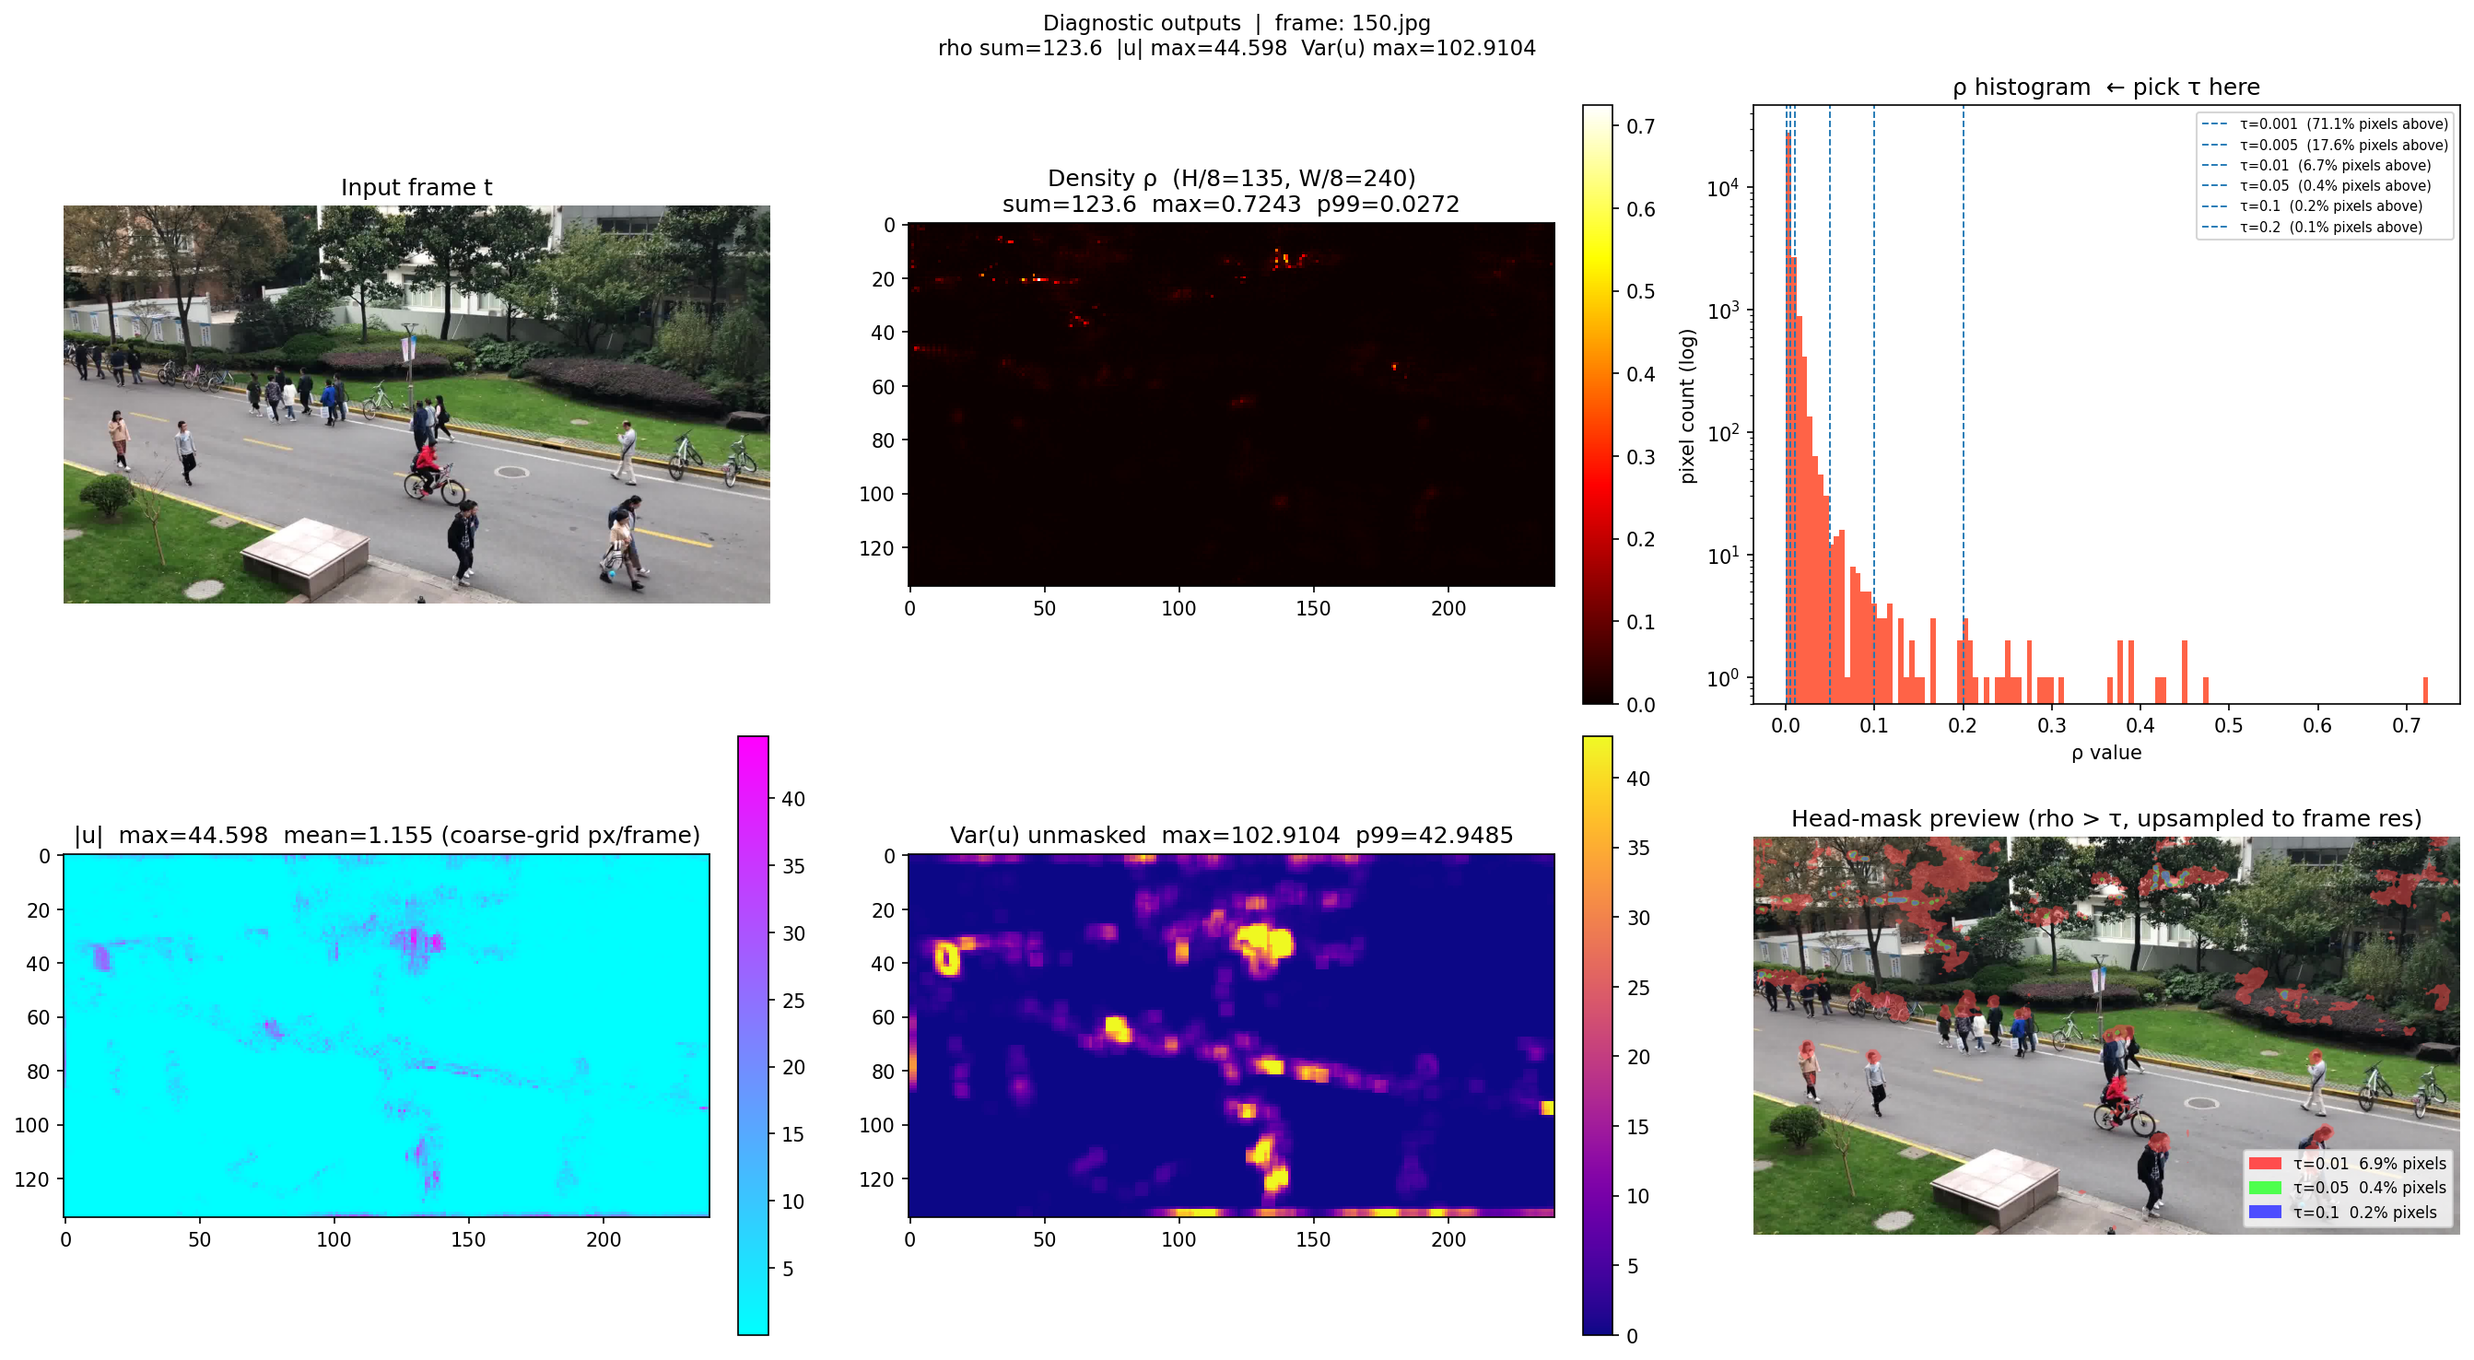
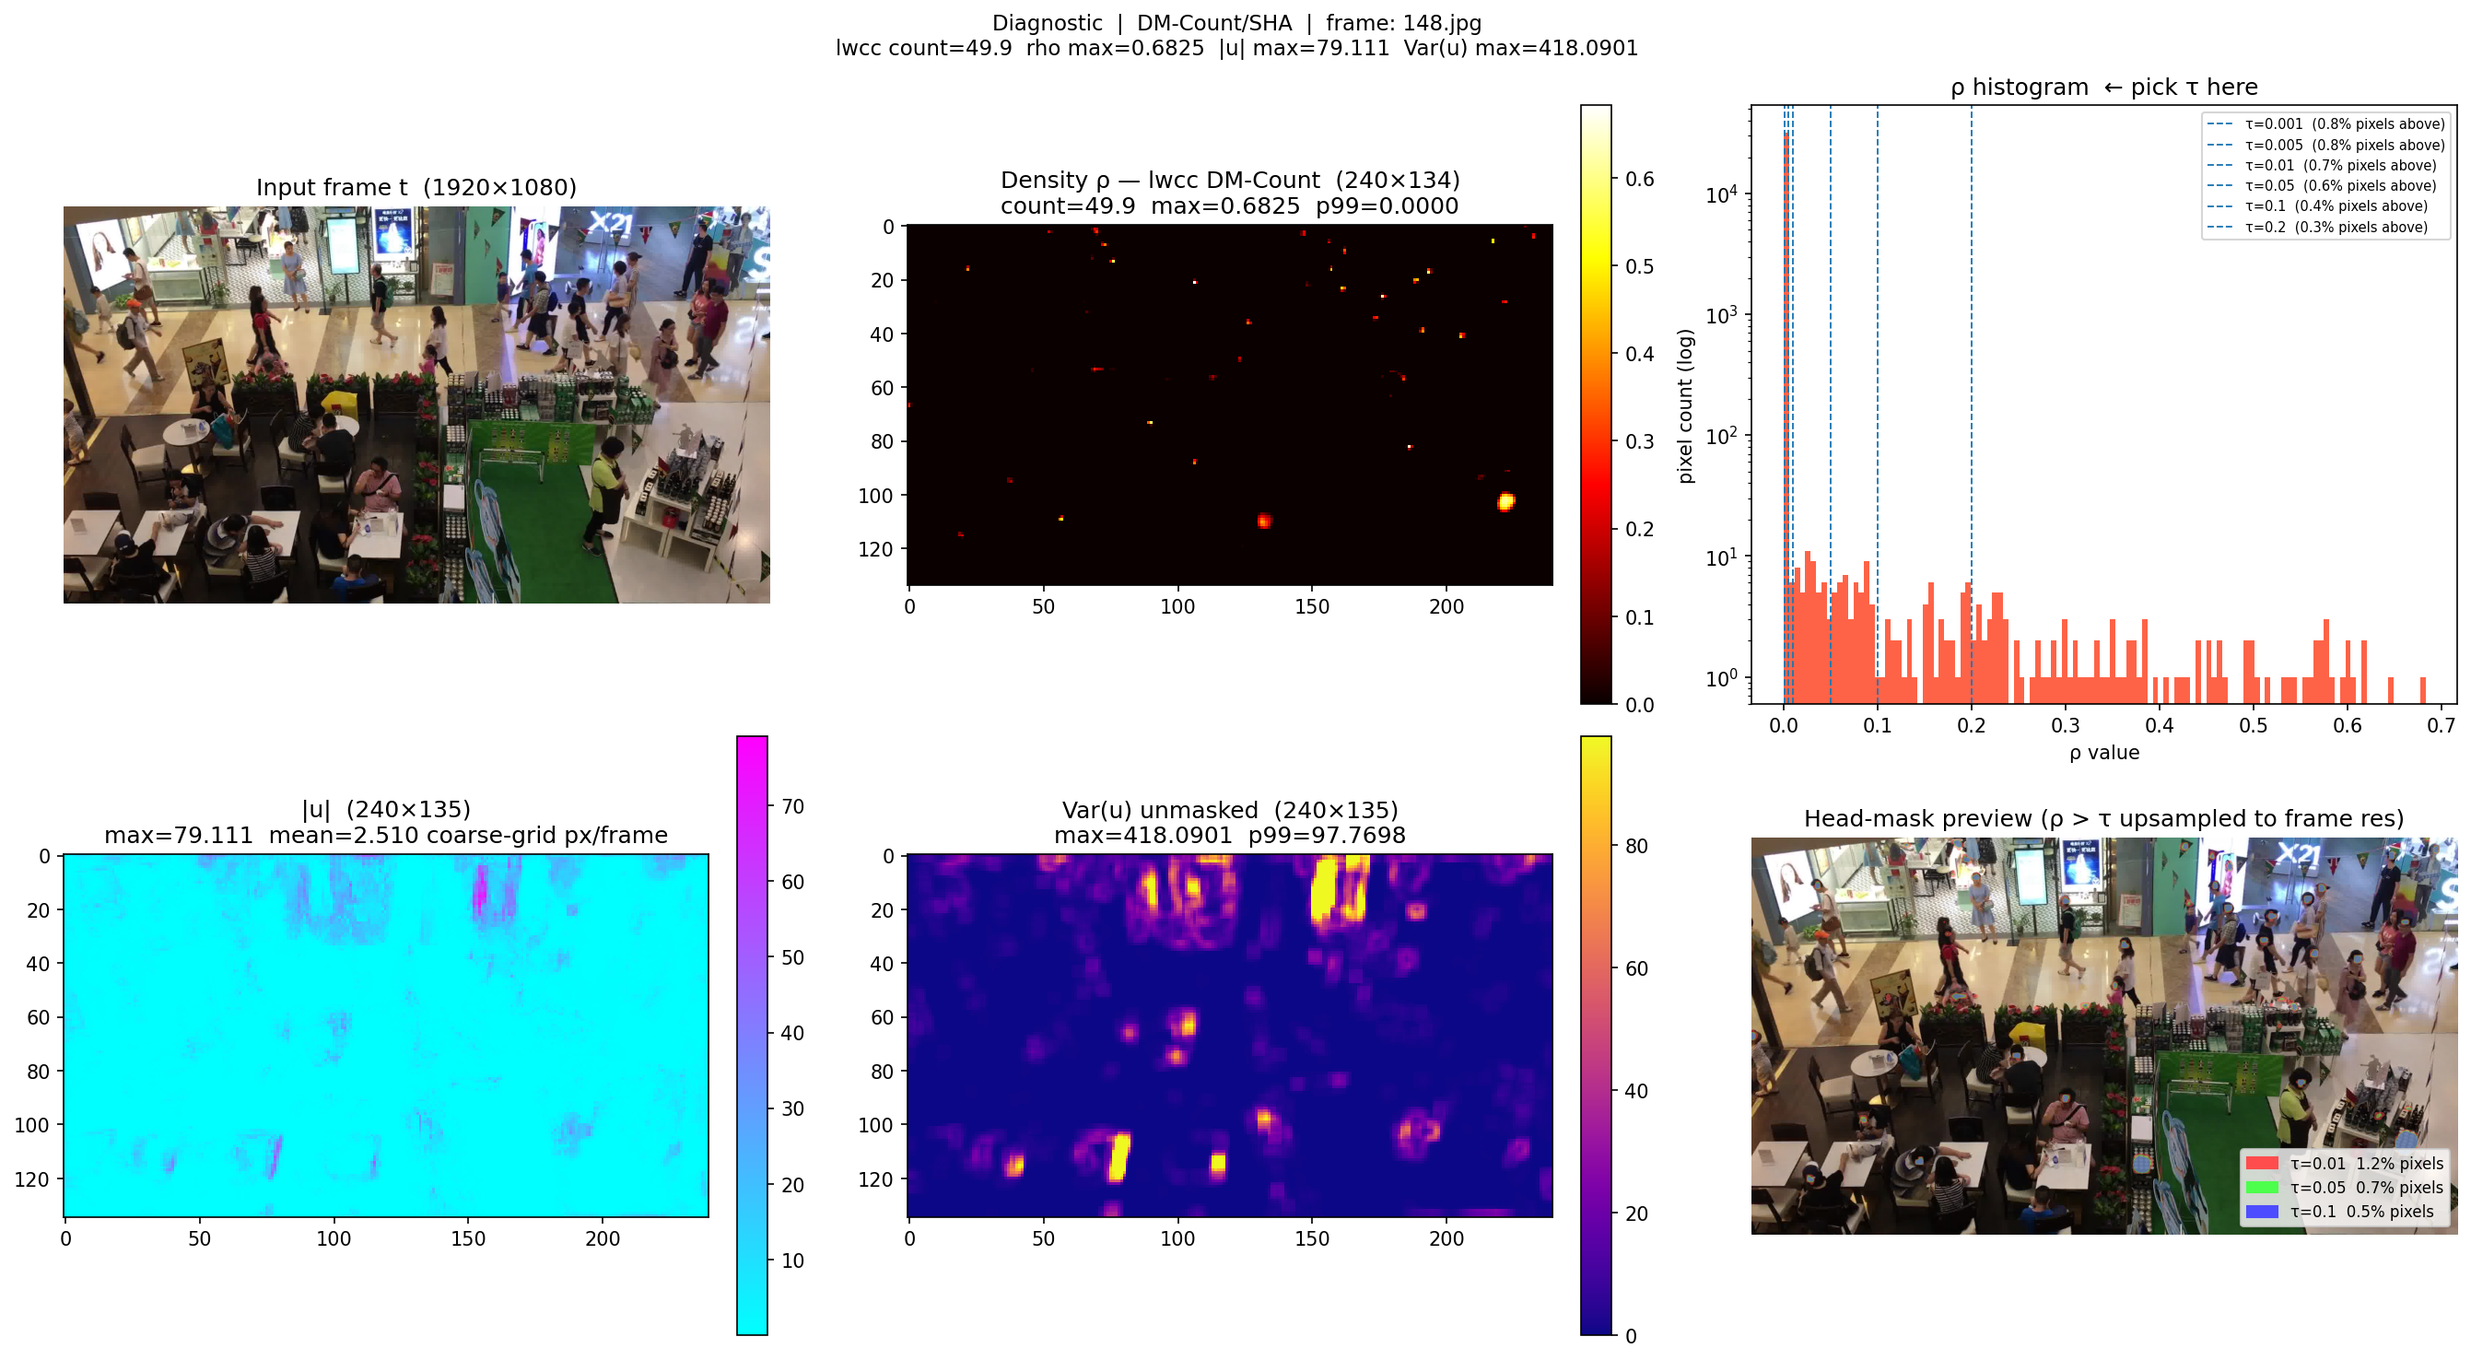
support lwcc

diff --git a/fluid-flow-pinn/scripts/diagnose_outputs.py b/fluid-flow-pinn/scripts/diagnose_outputs.py
@@ -1,28 +1,32 @@
-"""Diagnostic: dump raw density + flow outputs for threshold exploration.
+"""Diagnostic: dump raw density (lwcc) + flow (RAFT) outputs for threshold exploration.
 
-Runs CSRNet + RAFT on a pair of consecutive frames and produces a single
-PNG with 6 panels:
+Runs lwcc crowd counter + RAFT on a pair of frames and produces a single PNG with 6 panels:
 
   1. Input frame t
-  2. Raw density map (rho) — values printed in title (min/max/sum/percentiles)
-  3. Density histogram (log-scale) — use this to pick a rho threshold
+  2. Raw density map (rho) from lwcc — min/max/sum/percentiles in title
+  3. Density histogram (log-scale) — use this to pick a rho threshold tau
   4. Flow magnitude |u| at coarse grid
   5. Local variance Var(u) — unmasked, shows the clothing-noise problem
-  6. What a density-threshold mask looks like at different tau values
+  6. Head-mask preview: what rho > tau looks like at 3 tau values overlaid on frame
 
 Usage:
     python scripts/diagnose_outputs.py \\
-        --csrnet-weights /path/to/model_best.pth \\
         --frame-t  /path/to/frame_000.jpg \\
         --frame-t1 /path/to/frame_001.jpg \\
-        --out      outputs/diag.png
+        --out      outputs/diag/diagnostic.png
 
-    # If you only have a single image, pass the same path twice — flow will
-    # be zero but the density panel is still useful.
+    # Model choice (default DM-Count/SHA — best overall):
+    python scripts/diagnose_outputs.py \\
+        --frame-t img0.jpg --frame-t1 img1.jpg \\
+        --lwcc-model DM-Count --lwcc-weights SHA
+
+    # If you only have one image, pass it twice — flow will be zero
+    # but all density panels still render.
 """
 
 import argparse
 import sys
+import tempfile
 from pathlib import Path
 
 import cv2
@@ -37,12 +41,13 @@ from torch.amp import autocast
 ROOT = Path(__file__).resolve().parent.parent
 sys.path.insert(0, str(ROOT))
 
-from models.branch1_density import load_csrnet
 from models.branch2_flow import load_raft
 
 _MEAN = [0.485, 0.456, 0.406]
 _STD  = [0.229, 0.224, 0.225]
 
+
+# ── helpers ───────────────────────────────────────────────────────────────────
 
 def _to_tensor(bgr: np.ndarray, device: torch.device) -> torch.Tensor:
     rgb = cv2.cvtColor(bgr, cv2.COLOR_BGR2RGB).astype(np.float32) / 255.0
@@ -55,31 +60,64 @@ def _to_tensor(bgr: np.ndarray, device: torch.device) -> torch.Tensor:
 def _local_var(u: np.ndarray, k: int = 5) -> np.ndarray:
     ux, uy = u[0].astype(np.float32), u[1].astype(np.float32)
     Ex  = cv2.blur(ux, (k, k));  Ey  = cv2.blur(uy, (k, k))
-    Ex2 = cv2.blur(ux*ux, (k, k)); Ey2 = cv2.blur(uy*uy, (k, k))
+    Ex2 = cv2.blur(ux * ux, (k, k)); Ey2 = cv2.blur(uy * uy, (k, k))
     return np.clip(((Ex2 - Ex**2) + (Ey2 - Ey**2)) / 2.0, 0, None)
 
 
 def _stats(arr: np.ndarray, name: str) -> str:
     return (f"{name}: min={arr.min():.4f}  max={arr.max():.4f}  "
             f"mean={arr.mean():.4f}  sum={arr.sum():.2f}  "
-            f"p50={np.percentile(arr,50):.4f}  "
-            f"p90={np.percentile(arr,90):.4f}  "
-            f"p99={np.percentile(arr,99):.4f}")
+            f"p50={np.percentile(arr, 50):.4f}  "
+            f"p90={np.percentile(arr, 90):.4f}  "
+            f"p99={np.percentile(arr, 99):.4f}")
 
+
+def _lwcc_density(bgr: np.ndarray, model, model_name: str, get_count_fn) -> tuple[float, np.ndarray]:
+    """Run lwcc on a BGR frame (in-memory) via a temp file.
+
+    Returns (count, density_map_2d) where density_map_2d is a float32 numpy
+    array at the model's native output resolution (~H/8 for CSRNet-based models).
+    """
+    # lwcc only accepts file paths — write to a temp PNG, read back, clean up.
+    with tempfile.NamedTemporaryFile(suffix=".png", delete=False) as f:
+        tmp_path = f.name
+    try:
+        cv2.imwrite(tmp_path, bgr)
+        count, density = get_count_fn(
+            tmp_path,
+            model_name=model_name,
+            model=model,
+            return_density=True,
+            resize_img=False,   # we already handle our own resolution
+        )
+    finally:
+        Path(tmp_path).unlink(missing_ok=True)
+
+    return float(count), np.array(density, dtype=np.float32)
+
+
+# ── main ──────────────────────────────────────────────────────────────────────
 
 @torch.no_grad()
 def main(args: argparse.Namespace) -> None:
     device = torch.device("cuda" if torch.cuda.is_available() else "cpu")
     print(f"device: {device}")
 
-    # ── load models ───────────────────────────────────────────────────────────
-    density_branch = load_csrnet(
-        weights_path=args.csrnet_weights,
-        use_grad_checkpoint=False,
-        pretrained_vgg=(args.csrnet_weights is None),
-        freeze=True,
-    ).to(device).eval()
+    # ── load lwcc model once ──────────────────────────────────────────────────
+    try:
+        from lwcc.LWCC import load_model as lwcc_load_model, get_count as lwcc_get_count
+    except ImportError:
+        print("ERROR: lwcc not installed. Run:  pip install lwcc")
+        sys.exit(1)
 
+    print(f"Loading lwcc model: {args.lwcc_model} / {args.lwcc_weights} …")
+    lwcc_model = lwcc_load_model(
+        model_name=args.lwcc_model,
+        model_weights=args.lwcc_weights,
+    )
+    print("lwcc model ready.")
+
+    # ── load RAFT once ────────────────────────────────────────────────────────
     flow_branch = load_raft(frozen=True).to(device).eval()
 
     # ── load frames ───────────────────────────────────────────────────────────
@@ -88,35 +126,42 @@ def main(args: argparse.Namespace) -> None:
     if bgr_t is None:  raise FileNotFoundError(args.frame_t)
     if bgr_t1 is None: raise FileNotFoundError(args.frame_t1)
 
-    # snap to multiples of 8
+    # snap to multiples of 8 (RAFT requirement)
     H = (bgr_t.shape[0] // 8) * 8
     W = (bgr_t.shape[1] // 8) * 8
     bgr_t  = cv2.resize(bgr_t,  (W, H))
     bgr_t1 = cv2.resize(bgr_t1, (W, H))
 
+    # ── density via lwcc ──────────────────────────────────────────────────────
+    print("Running lwcc density estimation …")
+    count, rho_np = _lwcc_density(bgr_t, lwcc_model, args.lwcc_model, lwcc_get_count)
+    print(f"lwcc count estimate: {count:.1f}")
+    print(_stats(rho_np, "rho  "))
+
+    # ── flow via RAFT ─────────────────────────────────────────────────────────
     ft  = _to_tensor(bgr_t,  device)
     ft1 = _to_tensor(bgr_t1, device)
-
     use_fp16 = device.type == "cuda"
     with autocast(device_type=device.type, enabled=use_fp16):
-        rho = density_branch(ft)
-        u   = flow_branch(ft, ft1)
+        u = flow_branch(ft, ft1)
+    u_np  = u.squeeze(0).float().cpu().numpy()   # (2, Hf, Wf)
+    u_mag = np.sqrt(u_np[0]**2 + u_np[1]**2)
+    var_u = _local_var(u_np)
 
-    rho_np = rho.squeeze().float().cpu().numpy()   # (H/8, W/8)
-    u_np   = u.squeeze(0).float().cpu().numpy()    # (2, H/8, W/8)
-    u_mag  = np.sqrt(u_np[0]**2 + u_np[1]**2)
-    var_u  = _local_var(u_np)
-
-    print(_stats(rho_np, "rho  "))
     print(_stats(u_mag,  "|u|  "))
     print(_stats(var_u,  "Var(u)"))
+
+    # rho is at lwcc native res; flow is at H/8.  Report both.
+    print(f"\nrho shape  : {rho_np.shape}  (lwcc native output res)")
+    print(f"u shape    : {u_np.shape}    (RAFT H/8 grid)")
 
     # ── figure ────────────────────────────────────────────────────────────────
     fig, axes = plt.subplots(2, 3, figsize=(18, 10))
     fig.suptitle(
-        f"Diagnostic outputs  |  frame: {Path(args.frame_t).name}\n"
-        f"rho sum={rho_np.sum():.1f}  |u| max={u_mag.max():.3f}  "
-        f"Var(u) max={var_u.max():.4f}",
+        f"Diagnostic  |  {args.lwcc_model}/{args.lwcc_weights}  |  "
+        f"frame: {Path(args.frame_t).name}\n"
+        f"lwcc count={count:.1f}  rho max={rho_np.max():.4f}  "
+        f"|u| max={u_mag.max():.3f}  Var(u) max={var_u.max():.4f}",
         fontsize=11,
     )
 
@@ -124,21 +169,20 @@ def main(args: argparse.Namespace) -> None:
 
     # Panel 1 — input
     axes[0, 0].imshow(rgb_t)
-    axes[0, 0].set_title("Input frame t")
+    axes[0, 0].set_title(f"Input frame t  ({W}×{H})")
     axes[0, 0].axis("off")
 
-    # Panel 2 — raw density map
+    # Panel 2 — raw density map (lwcc native res)
     im2 = axes[0, 1].imshow(rho_np, cmap="hot", interpolation="nearest")
     axes[0, 1].set_title(
-        f"Density ρ  (H/8={rho_np.shape[0]}, W/8={rho_np.shape[1]})\n"
-        f"sum={rho_np.sum():.1f}  max={rho_np.max():.4f}  p99={np.percentile(rho_np,99):.4f}"
+        f"Density ρ — lwcc {args.lwcc_model}  ({rho_np.shape[1]}×{rho_np.shape[0]})\n"
+        f"count={count:.1f}  max={rho_np.max():.4f}  p99={np.percentile(rho_np, 99):.4f}"
     )
     plt.colorbar(im2, ax=axes[0, 1], fraction=0.046, pad=0.04)
 
     # Panel 3 — density histogram (log y) — KEY for picking tau
     flat_rho = rho_np.flatten()
     axes[0, 2].hist(flat_rho, bins=120, log=True, color="tomato", edgecolor="none")
-    # draw candidate threshold lines
     for tau in (0.001, 0.005, 0.01, 0.05, 0.1, 0.2):
         pct_above = 100.0 * (flat_rho > tau).mean()
         axes[0, 2].axvline(tau, linestyle="--", linewidth=0.9,
@@ -151,39 +195,39 @@ def main(args: argparse.Namespace) -> None:
     # Panel 4 — flow magnitude
     im4 = axes[1, 0].imshow(u_mag, cmap="cool", interpolation="nearest")
     axes[1, 0].set_title(
-        f"|u|  max={u_mag.max():.3f}  mean={u_mag.mean():.3f} (coarse-grid px/frame)"
+        f"|u|  ({u_np.shape[2]}×{u_np.shape[1]})\n"
+        f"max={u_mag.max():.3f}  mean={u_mag.mean():.3f} coarse-grid px/frame"
     )
     plt.colorbar(im4, ax=axes[1, 0], fraction=0.046, pad=0.04)
 
-    # Panel 5 — unmasked Var(u)  (the noisy baseline)
+    # Panel 5 — unmasked Var(u) — the noisy baseline we want to fix
     im5 = axes[1, 1].imshow(var_u, cmap="plasma", interpolation="nearest",
-                             vmin=0, vmax=np.percentile(var_u, 99))
+                             vmin=0, vmax=np.percentile(var_u, 99) + 1e-9)
     axes[1, 1].set_title(
-        f"Var(u) unmasked  max={var_u.max():.4f}  p99={np.percentile(var_u,99):.4f}"
+        f"Var(u) unmasked  ({var_u.shape[1]}×{var_u.shape[0]})\n"
+        f"max={var_u.max():.4f}  p99={np.percentile(var_u, 99):.4f}"
     )
     plt.colorbar(im5, ax=axes[1, 1], fraction=0.046, pad=0.04)
 
-    # Panel 6 — mask preview at several tau values
-    # Upsample rho to frame resolution for overlay
+    # Panel 6 — mask preview: upsample rho to frame res and overlay tau contours
     rho_up = cv2.resize(rho_np, (W, H), interpolation=cv2.INTER_LINEAR)
     overlay = rgb_t.copy().astype(np.float32) / 255.0
-    # show mask boundary for 3 tau levels with different colors
     tau_colors = {0.01: (1.0, 0.3, 0.3), 0.05: (0.3, 1.0, 0.3), 0.1: (0.3, 0.3, 1.0)}
     legend_patches = []
     for tau, color in tau_colors.items():
         mask = (rho_up > tau).astype(np.float32)
-        # tint the masked region
         for c, v in enumerate(color):
             overlay[:, :, c] = np.where(mask > 0,
                                          overlay[:, :, c] * 0.5 + v * 0.5,
                                          overlay[:, :, c])
         pct = 100.0 * mask.mean()
         legend_patches.append(
-            plt.matplotlib.patches.Patch(color=color, label=f"τ={tau}  {pct:.1f}% pixels")
+            plt.matplotlib.patches.Patch(
+                color=color, label=f"τ={tau}  {pct:.1f}% pixels")
         )
     axes[1, 2].imshow(np.clip(overlay, 0, 1))
     axes[1, 2].legend(handles=legend_patches, fontsize=8, loc="lower right")
-    axes[1, 2].set_title("Head-mask preview (rho > τ, upsampled to frame res)")
+    axes[1, 2].set_title("Head-mask preview (ρ > τ upsampled to frame res)")
     axes[1, 2].axis("off")
 
     plt.tight_layout()
@@ -195,13 +239,17 @@ def main(args: argparse.Namespace) -> None:
 
 
 def _parse() -> argparse.Namespace:
-    p = argparse.ArgumentParser(description="Diagnose density/flow outputs")
-    p.add_argument("--csrnet-weights", default=None,
-                   help="Path to ShanghaiTech CSRNet .pth (omit → VGG-pretrained only)")
+    p = argparse.ArgumentParser(description="Diagnose lwcc density + RAFT flow outputs")
     p.add_argument("--frame-t",  required=True, help="Path to frame t  (jpg/png)")
     p.add_argument("--frame-t1", required=True, help="Path to frame t+1 (jpg/png)")
     p.add_argument("--out", default="outputs/diag/diagnostic.png",
-                   help="Output PNG path")
+                   help="Output PNG path (default: outputs/diag/diagnostic.png)")
+    p.add_argument("--lwcc-model",   default="DM-Count",
+                   choices=("CSRNet", "SFANet", "Bay", "DM-Count"),
+                   help="lwcc model (default: DM-Count)")
+    p.add_argument("--lwcc-weights", default="SHA",
+                   choices=("SHA", "SHB", "QNRF"),
+                   help="lwcc pretrained weights dataset (default: SHA)")
     return p.parse_args()
 
 
